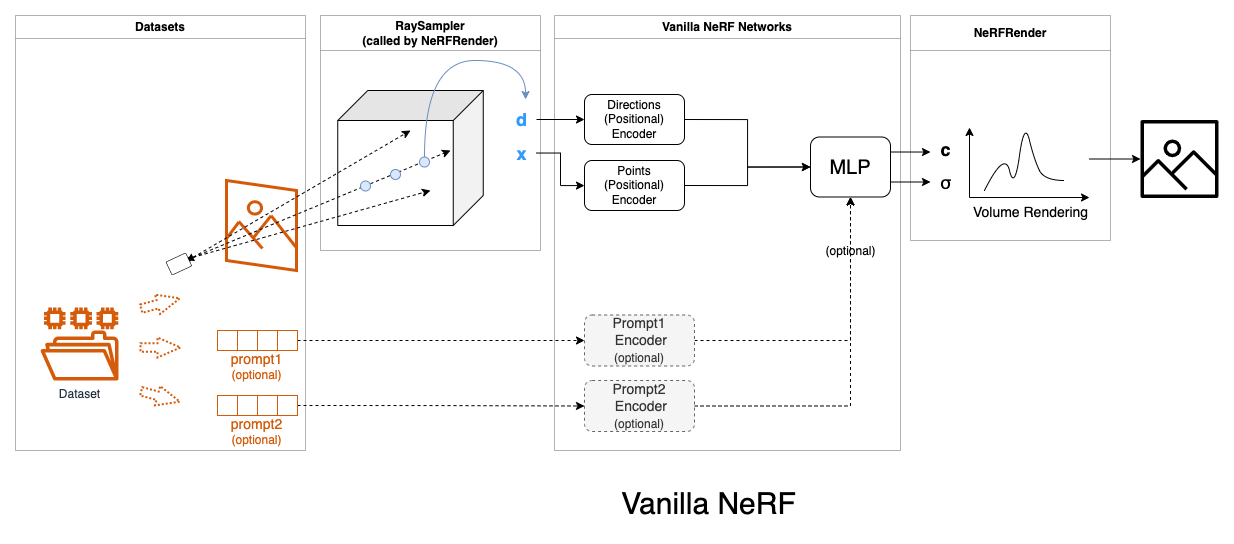
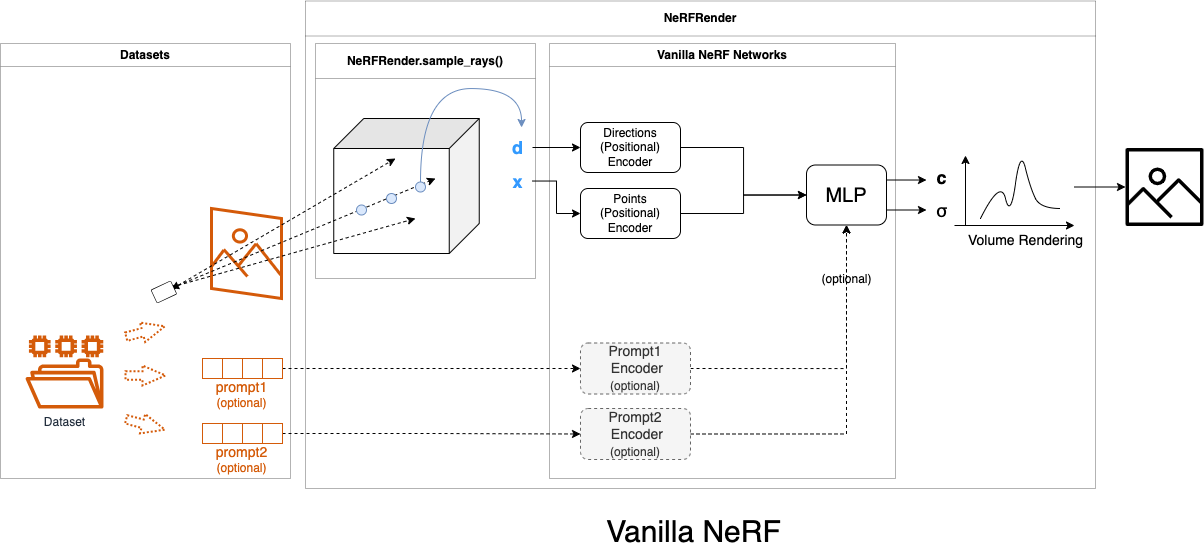
change desc & names

diff --git a/renders/dvgo_render.py b/renders/dvgo_render.py
@@ -2,7 +2,7 @@
 DVGO Implementation
 Reference: https://github.com/sunset1995/DirectVoxGO
 Difference with NeRFRender:
-    - DO NOT sample the same amound of points on each ray
+    - DO NOT sample the same amount of points on each ray
         |-> adjusted funcs: sample_rays, raw2alpha, and render_rays
 """
 
@@ -14,6 +14,7 @@ import torch.nn as nn
 import torch.nn.functional as F
 import torch_scatter
 from torch.utils.cpp_extension import load
+from typing import Tuple
 
 from networks import DirectVoxGO
 
@@ -117,12 +118,13 @@ class DVGORender(NeRFRender):
 
     def raw2outputs(
             self,
-            raw: torch.Tensor,
+            raw: Tuple[torch.Tensor, torch.Tensor],  # raw=(rgb, density)
             ray_id,
             step_id,
             N: int,  # N=len(rays_o)
     ):
-        rgb, density = torch.split(raw, [3, 1], dim=-1)
+        # rgb, density = torch.split(raw, [3, 1], dim=-1)
+        rgb, density = raw
         density = density.squeeze()  # for latter operations
 
         # query for alpha w/ post-activation

diff --git a/datasets/blender.py b/datasets/blender.py
@@ -5,7 +5,7 @@ import imageio
 
 import numpy as np
 import torch
-import torch.utils.data as data
+from torch.utils.data import Dataset, DataLoader
 
 trans_t = lambda t: torch.Tensor([[1, 0, 0, 0], [0, 1, 0, 0], [0, 0, 1, t], [0, 0, 0, 1]]).float()
 
@@ -24,7 +24,7 @@ def pose_spherical(theta, phi, radius):
     return c2w
 
 
-class BlenderDataset(data.Dataset):
+class BlenderDataset(Dataset):
     def __init__(self, root_dir: str, split: str, white_bkgd: bool = False, skip: int = 1, **kwargs):
         assert split in ['train', 'val', 'test']
         self._split = split
@@ -62,3 +62,7 @@ class BlenderDataset(data.Dataset):
         pose = np.array(frame['transform_matrix'], dtype=np.float32)
 
         return {'image': img, 'pose': pose}
+
+    def dataloader(self) -> DataLoader:
+        loader = DataLoader(self, shuffle=(self._split == "train"), batch_size=1, num_workers=0)
+        return loader

diff --git a/run.py b/run.py
@@ -95,9 +95,9 @@ if __name__ == '__main__':
     H = int(dataset_train.H)
     W = int(dataset_train.W)
     focal = dataset_train.focal
-    dataloader_train = DataLoader(dataset_train, shuffle=True, batch_size=1, num_workers=0)
-    dataloader_eval = DataLoader(dataset_val, shuffle=True, batch_size=1, num_workers=0)
-    dataloader_test = DataLoader(dataset_test, shuffle=False, batch_size=1, num_workers=0)
+    dataloader_train = dataset_train.dataloader()
+    dataloader_eval = dataset_val.dataloader()
+    dataloader_test = dataset_test.dataloader()
 
     # ==== Prepare model ====
     if config["model_params"]["model_type"] == "NeRF":

diff --git a/networks/nerf_net.py b/networks/nerf_net.py
@@ -192,4 +192,5 @@ class NeRFFull(nn.Module):
         # outputs_flat = self.nerf_nets[model_name](pts_embedded, viewdirs_embedded)
         outputs_flat = self.nerf_nets[model_name].batchify_predict(pts_embedded, viewdirs_embedded)
         outputs = torch.reshape(outputs_flat, (*pts.shape[:-1], outputs_flat.shape[-1]))
-        return outputs
+
+        return outputs  # pts_color, pts_density

diff --git a/networks/dvgo_net.py b/networks/dvgo_net.py
@@ -132,5 +132,5 @@ class DirectVoxGO(nn.Module):
                 k0_logit = self.colornet(k0_view, viewdirs)
                 pts_color = torch.sigmoid(k0_logit)
 
-        # return pts_color, pts_density
-        return torch.cat([pts_color, pts_density], dim=-1)
+        return pts_color, pts_density
+        # return torch.cat([pts_color, pts_density], dim=-1)

diff --git a/networks/__init__.py b/networks/__init__.py
@@ -1,2 +1,2 @@
 from .nerf_net import NeRFFull
-from .voxel_net import DirectVoxGO
+from .dvgo_net import DirectVoxGO

diff --git a/README.md b/README.md
@@ -9,6 +9,8 @@ The code structure is inspired by stable-dreamfusion.
 **NeRF structures (aka backbones) to use:*
 - ✅ NeRF
 - ☐ Voxel based NeRF
+  - ✅ [Direct Voxel Grid Optimization (DVGO)](https://github.com/sunset1995/DirectVoxGO): Enhancement techniques were omitted for generalization, thus yielding results not as impressive as original paper.
+  - ☐ [Instant Neural Graphics Primitives (Instant-ngp)](https://github.com/NVlabs/instant-ngp)
 - ☐ Tri-plane NeRF ([eg3d](https://nvlabs.github.io/eg3d/))
 - ☐ Pixel NeRF
 ## Datasets
@@ -22,7 +24,8 @@ python run.py --mode=train --config configs/lego.yaml
 ```
 
 ## Voxel / Hashmap NeRF (Working-in-progress)
-First proposed by [DVGO](https://github.com/sunset1995/DirectVoxGO) and [Plenoxels](https://alexyu.net/plenoxels/), and also widely used thanks to the popularity of [instant-ngp](https://github.com/NVlabs/instant-ngp).
+Initially introduced by [DVGO](https://github.com/sunset1995/DirectVoxGO) and [Plenoxels](https://alexyu.net/plenoxels/), and further popularized through [instant-ngp](https://github.com/NVlabs/instant-ngp), voxel-based NeRF has gained significant community interest due to its superior quality and impressive speed.
+
 
 ![voxel](./assets/images/structure-voxel.png)
 
